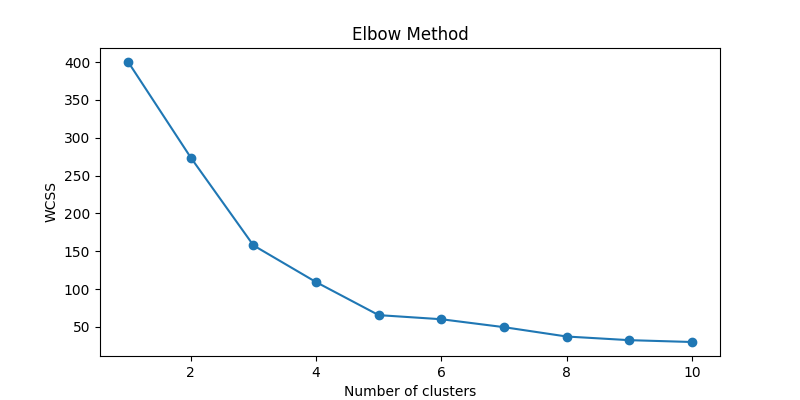
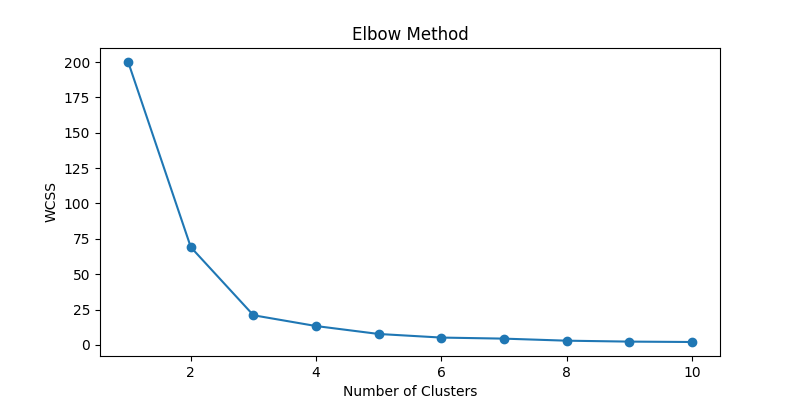
Update for including only PurchasehHstory/SpendingScore

diff --git a/PRODIGY_ML_02/kmeans_clustering/visualize.py b/PRODIGY_ML_02/kmeans_clustering/visualize.py
@@ -12,11 +12,12 @@ def plot_elbow(wcss, save_path='outputs/elbow_plot.png'):
     plt.close()
 
 def plot_clusters(X_scaled, labels, save_path='outputs/cluster_visualization.png'):
-    plt.figure(figsize=(8, 6))
-    sns.scatterplot(x=X_scaled[:, 0], y=X_scaled[:, 1], hue=labels, palette='Set2', s=100)
-    plt.title('Customer Segments')
-    plt.xlabel('Annual Income (scaled)')
+    plt.figure(figsize=(10, 4))
+    sns.scatterplot(x=range(len(X_scaled)), y=X_scaled[:, 0], hue=labels, palette='Set2', s=100)
+    plt.title('Customer Segments Based on Spending Score')
+    plt.xlabel('Customer Index')
     plt.ylabel('Spending Score (scaled)')
     plt.savefig(save_path)
     plt.show()
     plt.close()
+

diff --git a/PRODIGY_ML_02/kmeans_clustering/preprocessing.py b/PRODIGY_ML_02/kmeans_clustering/preprocessing.py
@@ -5,7 +5,7 @@ def load_data(path):
     return pd.read_csv(path)
 
 def select_data(data):
-    return data[['Annual Income (k$)', 'Spending Score (1-100)']]
+    return data[['Spending Score (1-100)']]
 
 def scale_data(X):
     scaler = StandardScaler()

diff --git a/PRODIGY_ML_02/main.py b/PRODIGY_ML_02/main.py
@@ -13,7 +13,7 @@ wcss = find_optimal_clusters(X_scaled)
 plot_elbow(wcss)
 
 # Step 3: Train model and assign clusters
-k = 5
+k = 3
 model, labels = train_kmeans(X_scaled, k)
 
 # Step 4: Save and visualize results

diff --git a/PRODIGY_ML_02/README.md b/PRODIGY_ML_02/README.md
@@ -32,7 +32,7 @@ KMeans-Customer-Segmentation/ #replaced by PRODIGY_ML_02 due to internship requi
 - Source: [Kaggle](https://www.kaggle.com/datasets/vjchoudhary7/customer-segmentation-tutorial-in-python)
 - File: `Mall_Customers.csv`
 - Columns used:
-  - `Annual Income (k$)`
+  - `Annual Income (k$)` #not included for internship requirements
   - `Spending Score (1-100)`
 
 ---
